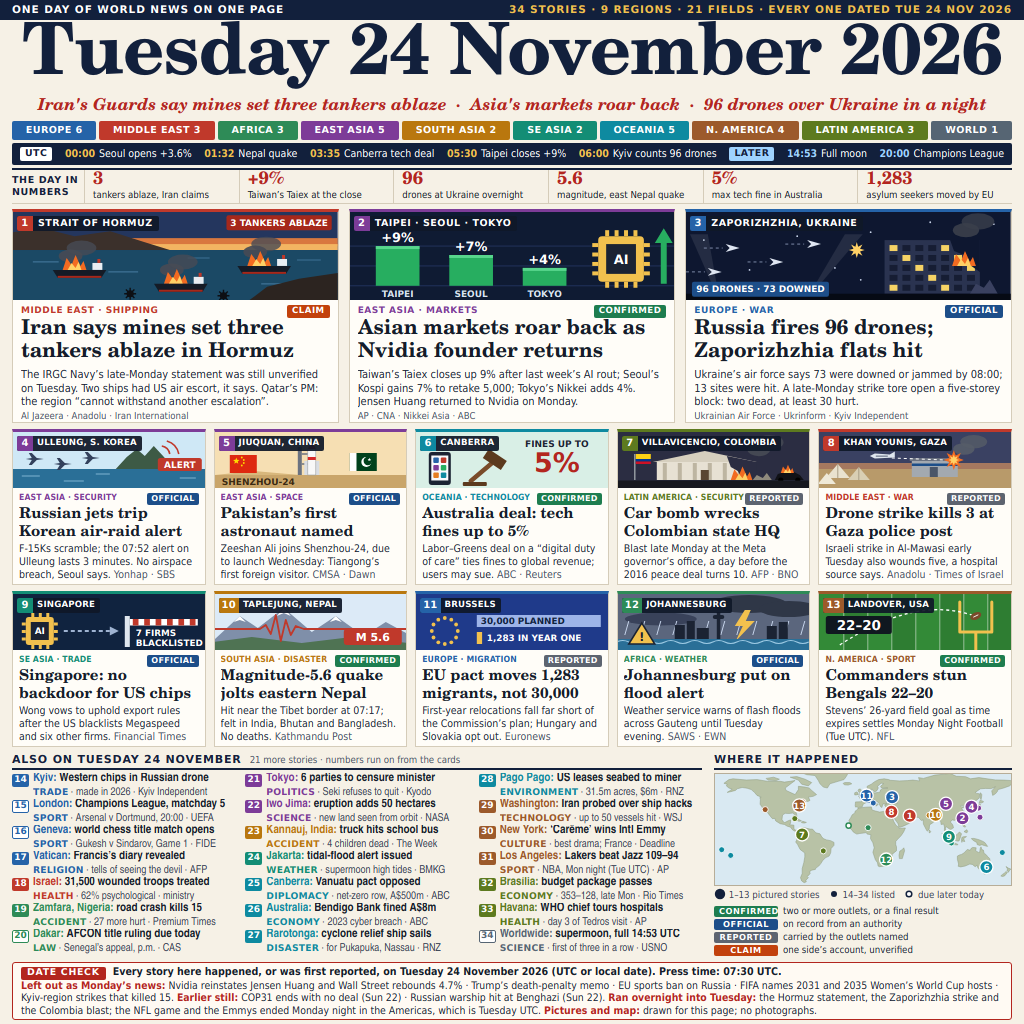
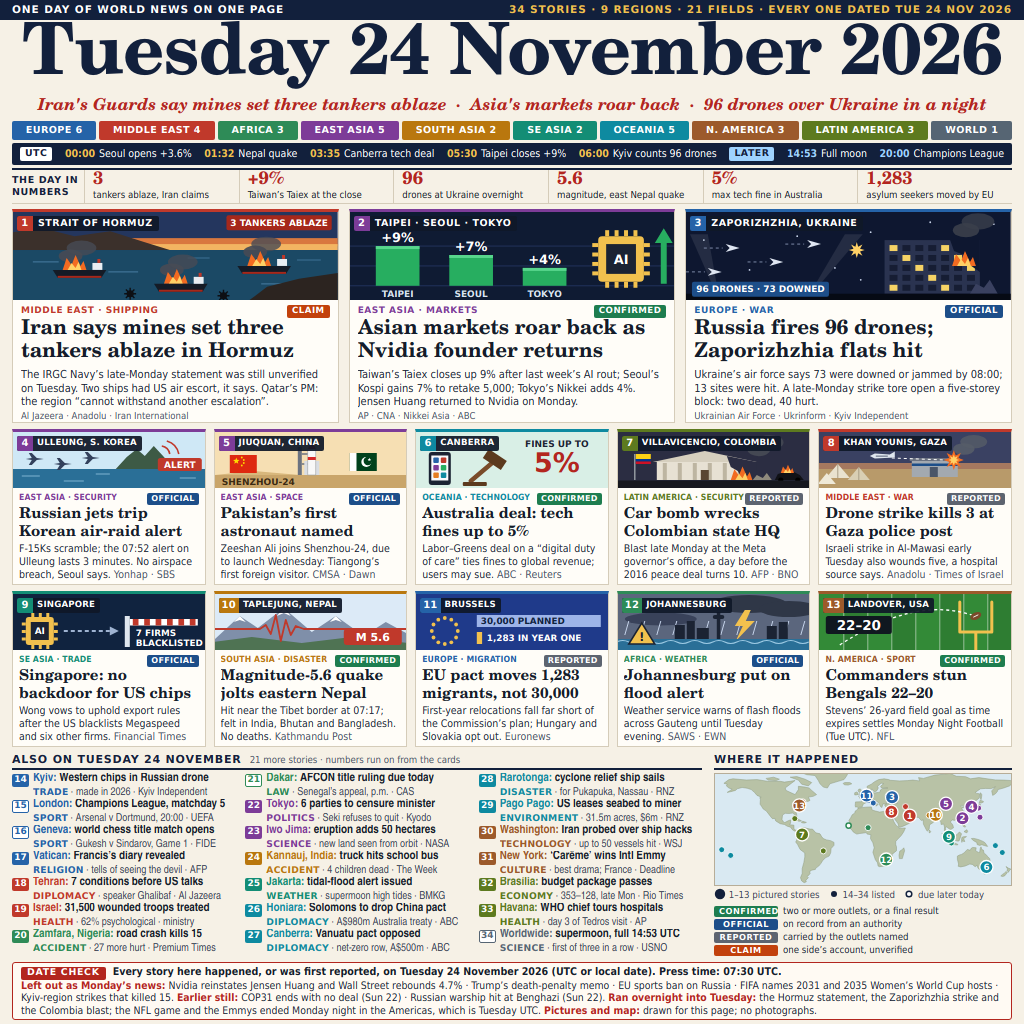
Press-time update: Solomon Islands and Tehran stories, Zaporizhzhia toll, plain import in the renderer
Swaps two minor items for the Solomon Islands dropping its China security pact
and Iran's speaker setting seven conditions for talks, raises the Zaporizhzhia
toll to 40 hurt, and lists what was checked and left out as Monday's news.
tools/render.mjs now imports playwright-core directly instead of through an
environment variable.

Changed region(s): [[0.0, 0.75, 0.4375, 0.9375], [0.4688, 0.75, 0.6875, 0.875], [0.75, 0.375, 0.8438, 0.4062]]

diff --git a/page/stories.js b/page/stories.js
@@ -66,7 +66,7 @@ window.DAY = {
     {
       id: 3, kind: 'lead', region: 'eu', field: 'WAR', place: 'ZAPORIZHZHIA, UKRAINE', tag: 'OFFICIAL', art: 'ukraine',
       head: 'Russia fires 96 drones; Zaporizhzhia flats hit',
-      body: 'Ukraine’s air force says 73 were downed or jammed by 08:00; 13 sites were hit. A late-Monday strike tore open a five-storey block: two dead, at least 30 hurt.',
+      body: 'Ukraine’s air force says 73 were downed or jammed by 08:00; 13 sites were hit. A late-Monday strike tore open a five-storey block: two dead, 40 hurt.',
       src: 'Ukrainian Air Force · Ukrinform · Kyiv Independent', lon: 35.1, lat: 48.9,
     },
 
@@ -135,20 +135,20 @@ window.DAY = {
     { id: 15, kind: 'list', region: 'eu', field: 'SPORT', place: 'London', head: 'Champions League, matchday 5', detail: 'Arsenal v Dortmund, 20:00', src: 'UEFA', due: true, lon: -0.1, lat: 51.5 },
     { id: 16, kind: 'list', region: 'eu', field: 'SPORT', place: 'Geneva', head: 'world chess title match opens', detail: 'Gukesh v Sindarov, Game 1', src: 'FIDE', due: true, lon: 6.1, lat: 46.2 },
     { id: 17, kind: 'list', region: 'eu', field: 'RELIGION', place: 'Vatican', head: 'Francis’s diary revealed', detail: 'tells of seeing the devil', src: 'AFP', lon: 12.45, lat: 41.9 },
-    { id: 18, kind: 'list', region: 'me', field: 'HEALTH', place: 'Israel', head: '31,500 wounded troops treated', detail: '62% psychological', src: 'ministry', lon: 35.6, lat: 33.6 },
-    { id: 19, kind: 'list', region: 'af', field: 'ACCIDENT', place: 'Zamfara, Nigeria', head: 'road crash kills 15', detail: '27 more hurt', src: 'Premium Times', lon: 6.2, lat: 12.2 },
-    { id: 20, kind: 'list', region: 'af', field: 'LAW', place: 'Dakar', head: 'AFCON title ruling due today', detail: 'Senegal’s appeal, p.m.', src: 'CAS', due: true, lon: -17.4, lat: 14.7 },
-    { id: 21, kind: 'list', region: 'ea', field: 'POLITICS', place: 'Tokyo', head: '6 parties to censure minister', detail: 'Seki refuses to quit', src: 'Kyodo', lon: 139.7, lat: 35.7 },
-    { id: 22, kind: 'list', region: 'ea', field: 'SCIENCE', place: 'Iwo Jima', head: 'eruption adds 50 hectares', detail: 'new land seen from orbit', src: 'NASA', lon: 141.3, lat: 24.8 },
-    { id: 23, kind: 'list', region: 'sa', field: 'ACCIDENT', place: 'Kannauj, India', head: 'truck hits school bus', detail: '4 children dead', src: 'The Week', lon: 79.9, lat: 27.1 },
-    { id: 24, kind: 'list', region: 'se', field: 'WEATHER', place: 'Jakarta', head: 'tidal-flood alert issued', detail: 'supermoon high tides', src: 'BMKG', lon: 106.8, lat: -6.2 },
-    { id: 25, kind: 'list', region: 'oc', field: 'DIPLOMACY', place: 'Canberra', head: 'Vanuatu pact opposed', detail: 'net-zero row, A$500m', src: 'ABC', lon: 168.3, lat: -17.7 },
-    { id: 26, kind: 'list', region: 'oc', field: 'ECONOMY', place: 'Australia', head: 'Bendigo Bank fined A$8m', detail: '2023 cyber breach', src: 'ABC', lon: 144.3, lat: -36.8 },
-    { id: 27, kind: 'list', region: 'oc', field: 'DISASTER', place: 'Rarotonga', head: 'cyclone relief ship sails', detail: 'for Pukapuka, Nassau', src: 'RNZ', lon: -159.8, lat: -21.2 },
-    { id: 28, kind: 'list', region: 'oc', field: 'ENVIRONMENT', place: 'Pago Pago', head: 'US leases seabed to miner', detail: '31.5m acres, $6m', src: 'RNZ', lon: -170.7, lat: -14.3 },
-    { id: 29, kind: 'list', region: 'na', field: 'TECHNOLOGY', place: 'Washington', head: 'Iran probed over ship hacks', detail: 'up to 50 vessels hit', src: 'WSJ', lon: -80.5, lat: 35.0 },
-    { id: 30, kind: 'list', region: 'na', field: 'CULTURE', place: 'New York', head: '‘Carême’ wins Intl Emmy', detail: 'best drama; France', src: 'Deadline', lon: -72.5, lat: 43.2 },
-    { id: 31, kind: 'list', region: 'na', field: 'SPORT', place: 'Los Angeles', head: 'Lakers beat Jazz 109–94', detail: 'NBA, Mon night (Tue UTC)', src: 'AP', lon: -118.2, lat: 34.0 },
+    { id: 18, kind: 'list', region: 'me', field: 'DIPLOMACY', place: 'Tehran', head: '7 conditions before US talks', detail: 'speaker Ghalibaf', src: 'Al Jazeera', lon: 51.4, lat: 37.6 },
+    { id: 19, kind: 'list', region: 'me', field: 'HEALTH', place: 'Israel', head: '31,500 wounded troops treated', detail: '62% psychological', src: 'ministry', lon: 35.6, lat: 33.6 },
+    { id: 20, kind: 'list', region: 'af', field: 'ACCIDENT', place: 'Zamfara, Nigeria', head: 'road crash kills 15', detail: '27 more hurt', src: 'Premium Times', lon: 6.2, lat: 12.2 },
+    { id: 21, kind: 'list', region: 'af', field: 'LAW', place: 'Dakar', head: 'AFCON title ruling due today', detail: 'Senegal’s appeal, p.m.', src: 'CAS', due: true, lon: -17.4, lat: 14.7 },
+    { id: 22, kind: 'list', region: 'ea', field: 'POLITICS', place: 'Tokyo', head: '6 parties to censure minister', detail: 'Seki refuses to quit', src: 'Kyodo', lon: 139.7, lat: 35.7 },
+    { id: 23, kind: 'list', region: 'ea', field: 'SCIENCE', place: 'Iwo Jima', head: 'eruption adds 50 hectares', detail: 'new land seen from orbit', src: 'NASA', lon: 141.3, lat: 24.8 },
+    { id: 24, kind: 'list', region: 'sa', field: 'ACCIDENT', place: 'Kannauj, India', head: 'truck hits school bus', detail: '4 children dead', src: 'The Week', lon: 79.9, lat: 27.1 },
+    { id: 25, kind: 'list', region: 'se', field: 'WEATHER', place: 'Jakarta', head: 'tidal-flood alert issued', detail: 'supermoon high tides', src: 'BMKG', lon: 106.8, lat: -6.2 },
+    { id: 26, kind: 'list', region: 'oc', field: 'DIPLOMACY', place: 'Honiara', head: 'Solomons to drop China pact', detail: 'A$980m Australia treaty', src: 'ABC', lon: 160.0, lat: -9.4 },
+    { id: 27, kind: 'list', region: 'oc', field: 'DIPLOMACY', place: 'Canberra', head: 'Vanuatu pact opposed', detail: 'net-zero row, A$500m', src: 'ABC', lon: 168.3, lat: -17.7 },
+    { id: 28, kind: 'list', region: 'oc', field: 'DISASTER', place: 'Rarotonga', head: 'cyclone relief ship sails', detail: 'for Pukapuka, Nassau', src: 'RNZ', lon: -159.8, lat: -21.2 },
+    { id: 29, kind: 'list', region: 'oc', field: 'ENVIRONMENT', place: 'Pago Pago', head: 'US leases seabed to miner', detail: '31.5m acres, $6m', src: 'RNZ', lon: -170.7, lat: -14.3 },
+    { id: 30, kind: 'list', region: 'na', field: 'TECHNOLOGY', place: 'Washington', head: 'Iran probed over ship hacks', detail: 'up to 50 vessels hit', src: 'WSJ', lon: -80.5, lat: 35.0 },
+    { id: 31, kind: 'list', region: 'na', field: 'CULTURE', place: 'New York', head: '‘Carême’ wins Intl Emmy', detail: 'best drama; France', src: 'Deadline', lon: -72.5, lat: 43.2 },
     { id: 32, kind: 'list', region: 'la', field: 'ECONOMY', place: 'Brasília', head: 'budget package passes', detail: '353–128, late Mon', src: 'Rio Times', lon: -47.9, lat: -15.8 },
     { id: 33, kind: 'list', region: 'la', field: 'HEALTH', place: 'Havana', head: 'WHO chief tours hospitals', detail: 'day 3 of Tedros visit', src: 'AP', lon: -82.4, lat: 23.1 },
     { id: 34, kind: 'list', region: 'world', field: 'SCIENCE', place: 'Worldwide', head: 'supermoon, full 14:53 UTC', detail: 'first of three in a row', src: 'USNO', due: true },

diff --git a/SOURCES.md b/SOURCES.md
@@ -13,7 +13,7 @@ for later the same day and not yet reported as done).
 | --- | --- | --- | --- | --- |
 | 1 | Iran's Revolutionary Guard navy says three tankers hit mines and burned in the Strait of Hormuz, two of them under US air escort | Statement late Monday night in Tehran, which is Tuesday in Asia; it led Tuesday's coverage and was still unverified | claim | Al Jazeera live blog of 24 Nov; Anadolu morning briefing, 24 Nov; Iran International; Mehr |
 | 2 | Asian share markets rebound: Taiex +8.99% to 40,122.35, Kospi about +7% to above 5,000, Nikkei about +4% | Tuesday's session, after Nvidia reinstated Jensen Huang on Monday | confirmed | AP via Korea Times; CNA; Nikkei Asia; ABC markets blog |
-| 3 | Russia launches 96 drones at Ukraine overnight; 73 downed or jammed by 08:00, hits at 13 sites. A strike late Monday partly destroys a five-storey block in Zaporizhzhia: 2 dead, at least 30 hurt | Night of 23 to 24 Nov; tolls reported Tuesday morning | official | Ukrainian Air Force; Ukrinform, 24 Nov 08:35; Kyiv Independent, 24 Nov |
+| 3 | Russia launches 96 drones at Ukraine overnight; 73 downed or jammed by 08:00, hits at 13 sites. A strike late Monday partly destroys a five-storey block in Zaporizhzhia: 2 dead, 40 hurt | Night of 23 to 24 Nov; tolls reported Tuesday morning | official | Ukrainian Air Force; Ukrinform, 24 Nov 08:35; Kyiv Independent, updated 24 Nov 09:04 |
 | 4 | Russian military aircraft enter South Korea's air defence zone; air-raid alert on Ulleung island at 07:52, lifted three minutes later; F-15Ks scrambled; no airspace violation | Tuesday 07:52 Korea time | official | Joint Chiefs of Staff via Yonhap and Anadolu; SBS; Asia Business Daily |
 | 5 | Muhammad Zeeshan Ali named to the Shenzhou-24 crew as Pakistan's first astronaut and the first foreigner to visit Tiangong; launch due Wednesday 08:18 Beijing time | Named Tuesday at Jiuquan | official | China Manned Space Agency via Dawn, 24 Nov; Reuters |
 | 6 | Australia's Labor government and the Greens agree a "digital duty of care": fines up to 5% of a platform's global revenue and a private right to sue | Tuesday in Canberra | confirmed | ABC, 24 Nov; Reuters |
@@ -33,20 +33,20 @@ for later the same day and not yet reported as done).
 | 15 | Champions League matchday 5: Arsenal v Dortmund, Manchester City v Napoli, Real Madrid v PSV | Due Tuesday 20:00 UTC | UEFA fixtures |
 | 16 | World Chess Championship, Gukesh v Sindarov: Game 1 in Geneva | Due Tuesday | FIDE; Chess.com |
 | 17 | A book of Pope Francis's private diary says he wrote of seeing the devil three times | Reported Tuesday | AFP via Times of Israel |
-| 18 | Israel's defence ministry: more than 31,500 troops treated for wounds since October 2023, about 62% for psychological conditions | Released Tuesday | Times of Israel |
-| 19 | Road crash in Zamfara, Nigeria, kills 15 party supporters and injures 27; rally postponed | Reported Tuesday | Premium Times |
-| 20 | Court of Arbitration for Sport to rule on Senegal's appeal over the Africa Cup of Nations title awarded to Morocco | Due Tuesday afternoon | CAS; AFP |
-| 21 | Six Japanese opposition parties agree to submit a censure motion against the education minister, Yoshihiro Seki | Tuesday | Kyodo via Nikkei Asia |
-| 22 | NASA image of the day: an eruption has added about 50 hectares of land to Iwo Jima | Published Tuesday | NASA Earth Observatory |
-| 23 | Truck hits a school bus on the Agra-Lucknow Expressway at Kannauj, India: four children dead, 32 injured | Tuesday | The Week; Assam Tribune |
-| 24 | Indonesia's weather agency warns of tidal flooding on coasts during the supermoon | For Tuesday | BMKG |
-| 25 | Australia's opposition turns against the A$500m Nakamal security agreement with Vanuatu over its net-zero clause | Tuesday | ABC |
-| 26 | Federal Court fines Bendigo and Adelaide Bank A$8m over a 2023 cyber incident | Tuesday | ABC markets blog |
-| 27 | Cook Islands patrol boat Te Kukupa II sails with relief for Pukapuka and Nassau after Cyclone Xavier | Reported Tuesday | RNZ Pacific |
-| 28 | The US leases 31.5 million acres of seabed off American Samoa to a deep-sea mining company for US$6m | Reported Tuesday | RNZ Pacific |
-| 29 | US investigates Iran as the prime suspect in cyberattacks on as many as 50 ships | Reported Tuesday | Wall Street Journal via Times of Israel |
-| 30 | International Emmys: France's "Carême" wins best drama series | Ceremony Monday night in New York, Tuesday UTC | Deadline; Hollywood Reporter |
-| 31 | NBA: Los Angeles Lakers beat the Utah Jazz 109-94 | Monday night in Los Angeles, Tuesday UTC | AP via CBS Sports |
+| 18 | Iran's parliament speaker, Mohammad Bagher Ghalibaf, says Tehran will not hold talks until the US meets its seven conditions | In Tuesday's live coverage | Al Jazeera live blog, 24 Nov |
+| 19 | Israel's defence ministry: more than 31,500 troops treated for wounds since October 2023, about 62% for psychological conditions | Released Tuesday | Times of Israel |
+| 20 | Road crash in Zamfara, Nigeria, kills 15 party supporters and injures 27; rally postponed | Reported Tuesday | Premium Times |
+| 21 | Court of Arbitration for Sport to rule on Senegal's appeal over the Africa Cup of Nations title awarded to Morocco | Due Tuesday afternoon | CAS; AFP |
+| 22 | Six Japanese opposition parties agree to submit a censure motion against the education minister, Yoshihiro Seki | Tuesday | Kyodo via Nikkei Asia |
+| 23 | NASA image of the day: an eruption has added about 50 hectares of land to Iwo Jima | Published Tuesday | NASA Earth Observatory |
+| 24 | Truck hits a school bus on the Agra-Lucknow Expressway at Kannauj, India: four children dead, 32 injured | Tuesday | The Week; Assam Tribune |
+| 25 | Indonesia's weather agency warns of tidal flooding on coasts during the supermoon | For Tuesday | BMKG |
+| 26 | Solomon Islands has told China it will not renew their 2022 security pact; its prime minister, Matthew Wale, lands in Canberra to sign a treaty with Australia carrying A$980m | Reported Tuesday; signing due Wednesday | ABC, citing sources |
+| 27 | Australia's opposition turns against the A$500m Nakamal security agreement with Vanuatu over its net-zero clause | Tuesday | ABC |
+| 28 | Cook Islands patrol boat Te Kukupa II sails with relief for Pukapuka and Nassau after Cyclone Xavier | Reported Tuesday | RNZ Pacific |
+| 29 | The US leases 31.5 million acres of seabed off American Samoa to a deep-sea mining company for US$6m | Reported Tuesday | RNZ Pacific |
+| 30 | US investigates Iran as the prime suspect in cyberattacks on as many as 50 ships | Reported Tuesday | Wall Street Journal via Times of Israel |
+| 31 | International Emmys: France's "Carême" wins best drama series | Ceremony Monday night in New York, Tuesday UTC | Deadline; Hollywood Reporter |
 | 32 | Brazil's Chamber of Deputies passes a budget-balancing package, 353 votes to 128 | Late Monday night in Brasília | Rio Times, 24 Nov |
 | 33 | The WHO's director-general, Tedros Adhanom Ghebreyesus, is on the third day of a visit to Cuba's hospitals | Tuesday | AP via Al Jazeera |
 | 34 | Full moon at 14:53 UTC, the first of three supermoons in a row | Due Tuesday 14:53 UTC | US Naval Observatory via Earth.com |
@@ -56,7 +56,9 @@ for later the same day and not yet reported as done).
 Monday 23 November: Nvidia's board reinstating Jensen Huang and Wall Street's rebound (S&P 500 +4.7%);
 President Trump's memorandum widening the federal death penalty; the EU's proposal to ban Russia from European
 sport; FIFA naming the hosts of the 2031 and 2035 Women's World Cups; Russian strikes that killed 15 in the Kyiv
-region; the appeals court order in Trump's hush-money case; the death of Molly Meldrum; the drawn Wellington Test.
+region; the appeals court order in Trump's hush-money case; the death of Molly Meldrum; the drawn Wellington
+Test; President Zelensky's call for four-way peace talks; Libya's demand that Kyiv explain the Benghazi strikes;
+Mexico's account of a US surveillance drone in the capture of "El Chapo Isidro".
 
 Sunday 22 November: COP31 closing in Antalya without an agreement; the strike on a Russian warship at Benghazi.
 

diff --git a/README.md b/README.md
@@ -42,10 +42,11 @@ therefore drawn ahead of time and committed, and `main.ts` only copies it.
 mkdir -p out && MAKEFUN_OUTPUT_DIR=out node main.ts
 ```
 
-To redraw the image after changing the page (needs `playwright-core` and its Chromium):
+To redraw the image after changing the page (needs the `playwright-core` package and its Chromium, installed
+where Node can resolve them):
 
 ```sh
-PLAYWRIGHT_CORE=/path/to/playwright-core/index.mjs node tools/render.mjs
+node tools/render.mjs
 ```
 
 ---
